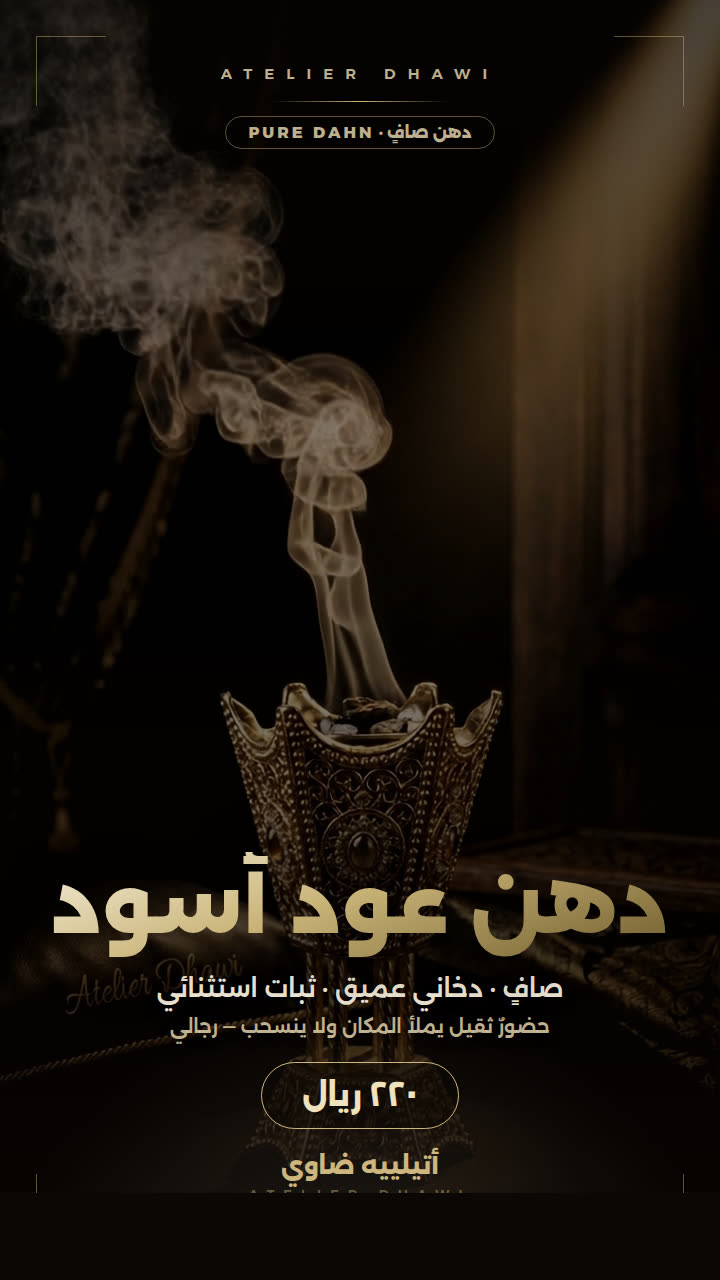
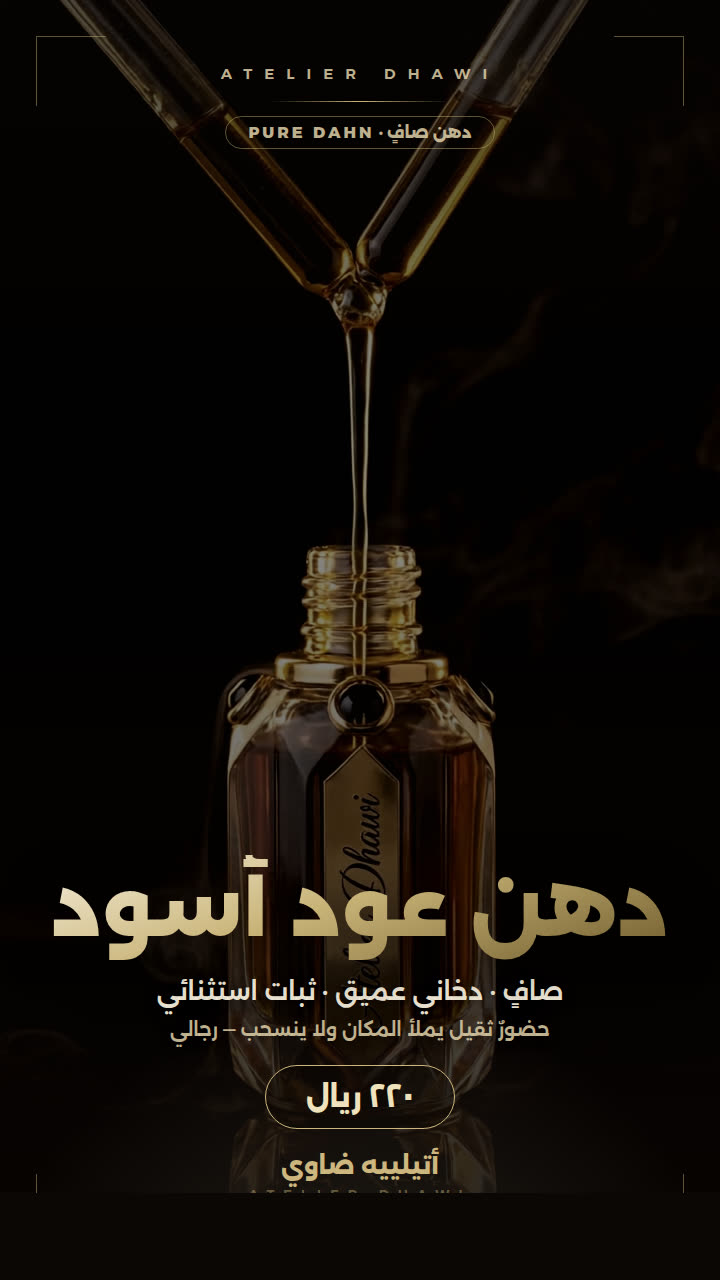
assets: posters for all 15 remaining lab recipes + dahn black/suyufi rebuilt on oud-oil bottle frames
- in-house pipeline: brand-film frames, per-recipe color grading, native Arabic type
- RECIPE_IMG extended to 29 recipes — every lab recipe card now has a photo banner
- d_black/d_suyufi backgrounds switched from mabkhara to pouring-oud bottle per request

diff --git a/index.html b/index.html
@@ -1256,6 +1256,21 @@ const RECIPE_IMG={
   r_nasmat_ward:"media/products/r_nasmat_ward.jpg",
   r_nasmat_sayf:"media/products/r_nasmat_sayf.jpg",
   r_sandal_ward:"media/products/r_sandal_ward.jpg",
+  r_layali:"media/products/r_layali.jpg",
+  r_black:"media/products/r_black.jpg",
+  r_falcon:"media/products/r_falcon.jpg",
+  civet:"media/products/civet.jpg",
+  saffron:"media/products/saffron.jpg",
+  maracuja:"media/products/maracuja.jpg",
+  vetiver:"media/products/vetiver.jpg",
+  cardamom:"media/products/cardamom.jpg",
+  r_bormi:"media/products/r_bormi.jpg",
+  r_muattaq:"media/products/r_muattaq.jpg",
+  r_khalifa:"media/products/r_khalifa.jpg",
+  r_suyufi:"media/products/r_suyufi.jpg",
+  r_hindi:"media/products/r_hindi.jpg",
+  r_snake:"media/products/r_snake.jpg",
+  r_oliffac:"media/products/r_oliffac.jpg",
 };
 (function(){
   const stored=localStorage.getItem("dw_build");